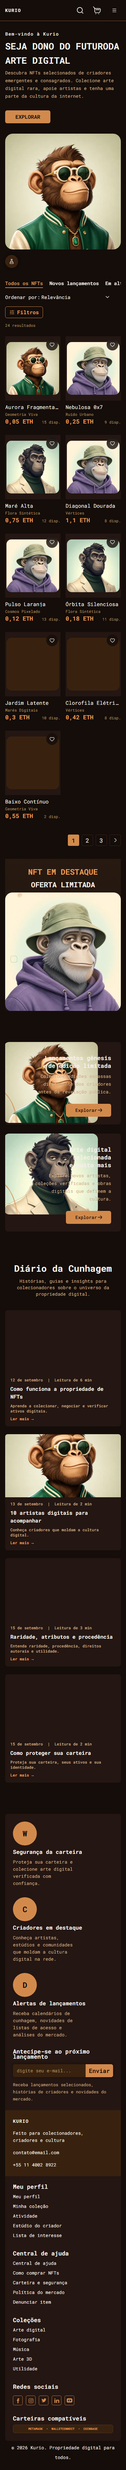
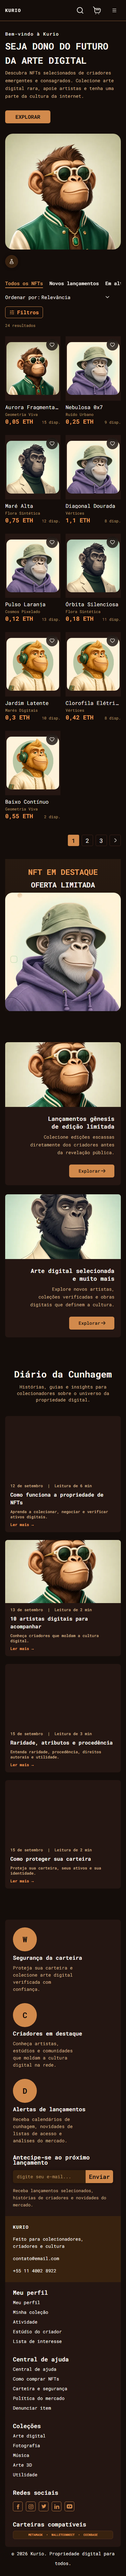
fix(figma): keep the hero spacing and stack the promo cards on mobile

diff --git a/src/features/catalog/components/PromoSection.tsx b/src/features/catalog/components/PromoSection.tsx
@@ -37,7 +37,7 @@ export function PromoSection() {
         {PROMOS.map((promo) => (
           <li
             key={promo.id}
-            className="relative flex min-h-[250px] overflow-hidden rounded-lg bg-card"
+            className="relative flex flex-col overflow-hidden rounded-lg bg-card lg:min-h-[250px] lg:flex-row"
           >
             <img
               src={promo.artwork}
@@ -48,16 +48,16 @@ export function PromoSection() {
               height={250}
               loading="lazy"
               decoding="async"
-              className="absolute top-0 -left-[5px] h-[250px] w-[292px] rounded-[18px] object-cover"
+              className="h-[200px] w-full object-cover lg:absolute lg:top-0 lg:-left-[5px] lg:h-[250px] lg:w-[292px] lg:rounded-[18px]"
             />
             <img
               src="/assets/banners/promo-rings.svg"
               alt=""
               width={586}
               height={250}
-              className="pointer-events-none absolute inset-0 h-[250px] w-full max-w-none"
+              className="pointer-events-none absolute inset-0 hidden h-[250px] w-full max-w-none lg:block"
             />
-            <div className="relative ml-auto flex w-full max-w-[300px] flex-col items-end pt-[37px] pr-[30px] pb-6 pl-4 text-right">
+            <div className="relative flex w-full flex-col items-end px-5 pt-6 pb-6 text-right lg:ml-auto lg:max-w-[300px] lg:pt-[37px] lg:pr-[30px] lg:pl-4">
               <h3 className="text-lg leading-6 font-bold">
                 {promo.title[0]}
                 <br />

diff --git a/src/features/catalog/components/HomeHero.tsx b/src/features/catalog/components/HomeHero.tsx
@@ -27,8 +27,7 @@ export function HomeHero() {
                 id="hero-title"
                 className="text-[28px] leading-[44px] font-bold uppercase sm:text-[36px] sm:leading-[56px] lg:text-[43px] lg:leading-[70px]"
               >
-                Seja dono do futuro
-                <br className="hidden lg:inline" />
+                Seja dono do futuro <br className="hidden lg:inline" />
                 da arte digital
               </h1>
             </div>
